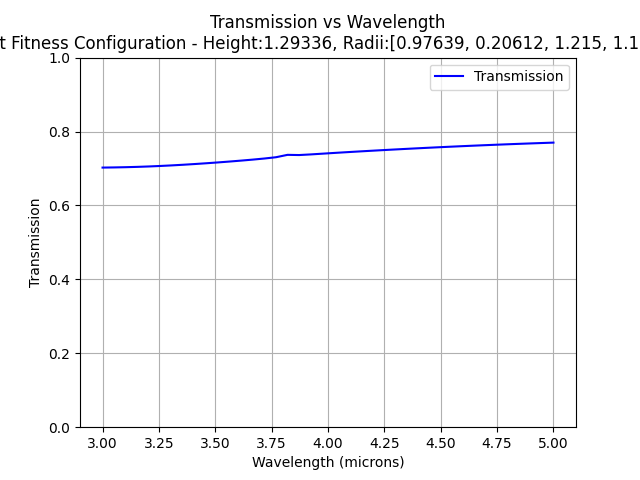
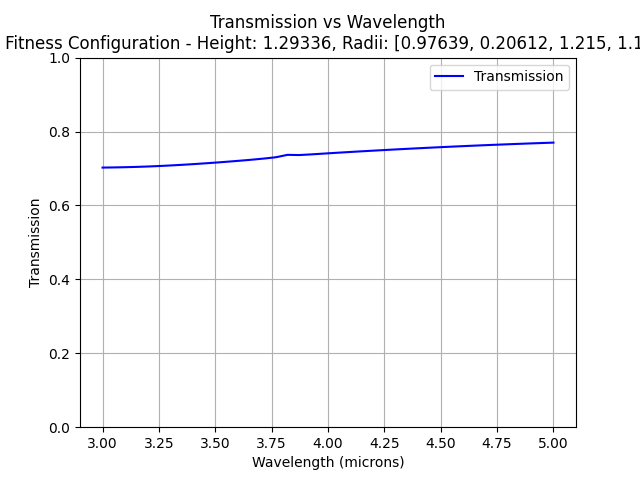
ran tests

Changed region(s): [[0.0, 0.0625, 1.0, 0.125]]

diff --git a/evolution_results/analyze2.py b/evolution_results/analyze2.py
@@ -1,0 +1,283 @@
+import os
+import sys
+import pandas as pd
+import ast
+import matplotlib.pyplot as plt
+import numpy as np
+
+OUTPUT_DIR = './plots/'
+
+def plot_fitness_trends(data, output_dir):
+    if 'generation' not in data.columns:
+        raise ValueError("The 'generation' column is missing from the data.")
+    
+    generations = sorted(data['generation'].unique())
+    avg_fitness = []
+    max_fitness = []
+
+    for gen in generations:
+        gen_data = data[data['generation'] == gen]
+        avg_fitness.append(gen_data['fitness'].mean())
+        max_fitness.append(gen_data['fitness'].max())
+
+    plt.figure()
+    plt.plot(generations, avg_fitness, label='Average Fitness', color='blue')
+    plt.plot(generations, max_fitness, label='Highest Fitness', color='red')
+    plt.xlabel('Generation')
+    plt.ylabel('Fitness')
+    plt.title('Fitness Trends Across Generations')
+    plt.legend()
+    plt.grid(True)
+    plt.savefig(os.path.join(output_dir, 'fitness_trends.png'))
+    plt.close()
+
+def plot_best_and_average_fitness(data, output_dir):
+    if 'generation' not in data.columns:
+        raise ValueError("The 'generation' column is missing from the data.")
+    
+    generations = sorted(data['generation'].unique())
+    avg_fitness = []
+    best_fitness = []
+
+    for gen in generations:
+        gen_data = data[data['generation'] == gen]
+        avg_fitness.append(gen_data['fitness'].mean())
+        best_fitness.append(gen_data['fitness'].max())
+
+    plt.figure()
+    plt.plot(generations, avg_fitness, label='Average Fitness', color='blue', linestyle='--')
+    plt.plot(generations, best_fitness, label='Best Fitness', color='red', linestyle='-')
+    plt.xlabel('Generation')
+    plt.ylabel('Fitness')
+    plt.title('Best and Average Fitness Per Generation')
+    plt.legend()
+    plt.grid(True)
+    plt.savefig(os.path.join(output_dir, 'best_and_average_fitness.png'))
+    plt.close()
+
+def plot_highest_transmission(data, output_dir):
+    generations = sorted(data['generation'].unique())
+    selected_generations = [generations[0], generations[len(generations)//2], generations[-1]]
+
+    for gen in selected_generations:
+        gen_data = data[data['generation'] == gen]
+        max_transmission_row = gen_data.loc[gen_data['transmission'].idxmax()]
+        radii_list = ast.literal_eval(max_transmission_row['radii list'])  # Convert radii list to Python list
+        height = max_transmission_row['height']
+        
+        # Handle cases where transmission is a single value
+        transmission = max_transmission_row['transmission']
+        if isinstance(transmission, str):
+            transmission = ast.literal_eval(transmission)  # Convert string to list if necessary
+        if not isinstance(transmission, (list, np.ndarray)):
+            transmission = [transmission] * 40  # Repeat the single value for all wavelengths
+        
+        wavelength = np.linspace(3, 5, len(transmission))
+
+        plt.figure()
+        plt.plot(wavelength, transmission, label=f'Gen {gen} - Height: {height}, Radii: {radii_list}')
+        plt.xlabel('Wavelength (microns)')
+        plt.ylabel('Transmission')
+        plt.title(f'Highest Transmission - Generation {gen}')
+        plt.legend()
+        plt.grid(True)
+        plt.savefig(os.path.join(output_dir, f'highest_transmission_gen_{gen}.png'))
+        plt.close()
+
+def plot_best_fitness(data, output_dir, last_generation_file):
+    # Load the last generation file
+    last_gen_data = pd.read_csv(last_generation_file)
+    
+    max_fitness_row = last_gen_data.loc[last_gen_data['fitness'].idxmax()]
+    radii_list = ast.literal_eval(max_fitness_row['radii list'])  # Convert radii list to Python list
+    height = max_fitness_row['height']
+    
+    # Ensure transmission is a list of values
+    transmission = max_fitness_row['transmission']
+    if isinstance(transmission, str):
+        transmission = ast.literal_eval(transmission)  # Convert string to list if necessary
+    if not isinstance(transmission, (list, np.ndarray)):
+        raise ValueError("Transmission data is not a list of values.")
+
+    # Generate wavelength range
+    wavelength = np.linspace(3, 5, len(transmission))
+
+    irst_gen_data = pd.read_csv('generation2_1.csv')
+    middle_gen_data = pd.read_csv('generation2_26.csv')
+
+    # Plot the transmission vs wavelength
+    plt.figure()
+    plt.plot(wavelength, transmission, label='Transmission', color='blue')
+    plt.xlabel('Wavelength (microns)')
+    plt.ylabel('Transmission')
+    plt.ylim(0, 1)  # Match the y-axis limits from analyze.py
+    plt.title(f"Transmission vs Wavelength\nBest Fitness Configuration - Height: {height}, Radii: {radii_list}")
+    plt.legend()
+    plt.grid(True)
+
+    # Save the plot to a file
+    plot_file = os.path.join(output_dir, 'best_fitness_configuration.png')
+    plt.savefig(plot_file)
+    print(f"Plot saved to: {plot_file}")
+
+    # Show the plot (if running locally with GUI support)
+    #plt.show()
+
+def plot_violin_fitness(data, output_dir):
+    generations = sorted(data['generation'].unique())
+    fitness_values = [data[data['generation'] == gen]['fitness'].values for gen in generations]
+
+    plt.figure()
+    plt.violinplot(fitness_values, showmeans=True, showextrema=True)
+    plt.xticks(range(1, len(generations) + 1), generations, rotation=45)
+    plt.xlabel('Generation')
+    plt.ylabel('Fitness')
+    plt.title('Fitness Distribution Across Generations')
+    plt.grid(True)
+    plt.savefig(os.path.join(output_dir, 'violin_fitness.png'))
+    plt.close()
+
+def find_last_generation_file(data_dir):
+    """Find the most recent generation CSV file in the specified directory."""
+    generation_files = [f for f in os.listdir(data_dir) if f.startswith('generation2_') and f.endswith('.csv')]
+    if not generation_files:
+        raise FileNotFoundError("No generation files found in the specified directory.")
+    
+    # Sort files by generation number
+    generation_files.sort(key=lambda x: int(x.split('_')[1].split('.')[0]))
+    return os.path.join(data_dir, generation_files[-1])
+
+def analyze_results(file_path):
+    file_path_list = ['generation2_1.csv', 'generation2_26.csv', 'generation2_51.csv']
+    plt.figure()
+    labels = ['Generation 1', 'Generation 25', 'Generation 50']
+    colors = ['blue', 'green', 'red']
+    for file_path, labeler, color in zip(file_path_list, labels, colors):
+        # Load the CSV file
+        data = pd.read_csv(file_path)
+
+        # Find the row with the maximum transmission
+        max_transmission_row = data.loc[data['transmission'].idxmax()]
+        max_transmission = max_transmission_row['transmission']
+        max_transmission_config = {
+            "height": max_transmission_row['height'],
+            "radii list": ast.literal_eval(max_transmission_row['radii list'])
+        }
+
+        # Find the row with the maximum fitness
+        max_fitness_row = data.loc[data['fitness'].idxmax()]
+        max_fitness = max_fitness_row['fitness']
+        max_fitness_config = {
+            "height": max_fitness_row['height'],
+            "radii list": ast.literal_eval(max_fitness_row['radii list'])
+        }
+
+        # Calculate the average fitness
+        avg_fitness = data['fitness'].mean()
+
+        # Print the results
+        print("Analysis Results:")
+        print(f"Max Transmission: {max_transmission}")
+        print(f"Configuration for Max Transmission: {max_transmission_config}")
+        print(f"Max Fitness: {max_fitness}")
+        print(f"Configuration for Max Fitness: {max_fitness_config}")
+        print(f"Average Fitness: {avg_fitness}")
+
+        # Filter data for the configuration with the best fitness
+        best_fitness_data = data[
+            (data['height'] == max_transmission_config['height']) &
+            (data['radii list'] == str(max_transmission_config['radii list']))
+        ]
+
+        # Plot transmission vs wavelength
+        
+        plt.plot(best_fitness_data['wavelength'], best_fitness_data['transmission'], color=color, label=labeler)
+        
+    plt.xlabel('Wavelength (microns)')
+    plt.ylabel('Transmission')
+    plt.ylim(0, 1)
+    plt.title(f"Transmission vs Wavelength\nBest Fitness Configuration - Height: {max_fitness_config['height']}, Radii: {max_fitness_config['radii list']}")
+    plt.legend()
+    plt.grid(True)
+
+    # Save the plot to a file
+    plot_file = './plots/best_fitness_tranmission_generations.png'
+    plt.savefig(plot_file)
+    print(f"Plot saved to: {plot_file}")
+    plt.show()
+    # Show the plot (if running locally with GUI support)
+    #plt.show()
+
+    
+
+def process_generation_files(data_dir):
+    """Process all generation CSV files and calculate max and average fitness per generation."""
+    generation_files = [
+        f for f in os.listdir(data_dir) if f.startswith('generation2_') and f.endswith('.csv')
+    ]
+    if not generation_files:
+        raise FileNotFoundError("No generation files found in the specified directory.")
+
+    # Sort files by generation number
+    generation_files.sort(key=lambda x: int(x.split('_')[1].split('.')[0]))
+
+    max_fitness_per_generation = []
+    avg_fitness_per_generation = []
+    generations = []
+
+    for gen_file in generation_files:
+        gen_number = int(gen_file.split('_')[1].split('.')[0])
+        generations.append(gen_number)
+
+        # Load the CSV file
+        file_path = os.path.join(data_dir, gen_file)
+        data = pd.read_csv(file_path)
+
+        # Ensure the 'fitness' column exists
+        if 'fitness' not in data.columns:
+            raise ValueError(f"The file {gen_file} does not contain a 'fitness' column.")
+
+        # Calculate max and average fitness
+        max_fitness = data['fitness'].max()
+        avg_fitness = data['fitness'].mean()
+
+        max_fitness_per_generation.append(max_fitness)
+        avg_fitness_per_generation.append(avg_fitness)
+
+    return generations, max_fitness_per_generation, avg_fitness_per_generation
+
+def plot_fitness_trends(generations, max_fitness, avg_fitness, output_dir):
+    """Plot max and average fitness trends across generations."""
+    plt.figure()
+    plt.plot(generations, avg_fitness, label='Average Fitness', color='blue', linestyle='--')
+    plt.plot(generations, max_fitness, label='Max Fitness', color='red', linestyle='-')
+    plt.xlabel('Generation')
+    plt.ylabel('Fitness')
+    plt.title('Max and Average Fitness Across Generations')
+    plt.legend()
+    plt.grid(True)
+
+    # Save the plot
+    plot_file = os.path.join(output_dir, 'fitness_trends_across_generations.png')
+    plt.savefig(plot_file)
+    print(f"Fitness trends plot saved to: {plot_file}")
+
+    # Show the plot (if running locally with GUI support)
+    #plt.show()
+
+def analyze_all_generations(data_dir):
+    """Analyze all generation files and plot fitness trends."""
+    os.makedirs(OUTPUT_DIR, exist_ok=True)
+
+    # Process all generation files
+    generations, max_fitness, avg_fitness = process_generation_files(data_dir)
+
+    # Plot fitness trends
+    plot_fitness_trends(generations, max_fitness, avg_fitness, OUTPUT_DIR)
+    analyze_results(os.path.join(data_dir, find_last_generation_file(data_dir)))
+if __name__ == "__main__":
+    data_dir = './'
+    try:
+        analyze_all_generations(data_dir)
+    except Exception as e:
+        print(f"Error: {e}")

diff --git a/evolutionary_algorithm.py b/evolutionary_algorithm.py
@@ -20,12 +20,24 @@ RADIUS_RANGE = (0.05 * 2.7, 0.45 * 2.7)  # microns
 
 # Fitness function: maximize transmission peak height and duration
 def fitness_function(transmission_values, wavelengths):
-    #from IPython import embed; embed(); exit()
-    peak_height = np.max(transmission_values)
-    peak_duration = np.sum(transmission_values > 0.8 * peak_height)  # Duration above 80% of peak
-    area_under_curve = np.trapezoid(transmission_values, wavelengths)
+    """
+    Calculate the fitness of a configuration based on its transmission values and wavelengths.
+    Priority:
+    1. Higher peak transmission always results in a better fitness.
+    2. If peak transmission is the same, prioritize longer peak duration (above 90% of the peak).
+    """
+    # Calculate the peak transmission value
+    peak_transmission = np.max(transmission_values)
 
-    return round(2 * peak_height + peak_duration + area_under_curve, 6)  # Weight peak height more
+    # Calculate the duration where transmission is above 90% of the peak
+    peak_threshold = 0.9 * peak_transmission
+    peak_duration = np.sum(transmission_values >= peak_threshold)
+
+    # Combine the metrics into a hierarchical fitness score
+    # Multiply peak_transmission by a large constant to ensure it dominates the fitness value
+    fitness = round(1000 * peak_transmission + peak_duration, 6)
+
+    return fitness
 
 # Generate initial population from grid data
 def initialize_population(data_path, population_size):
